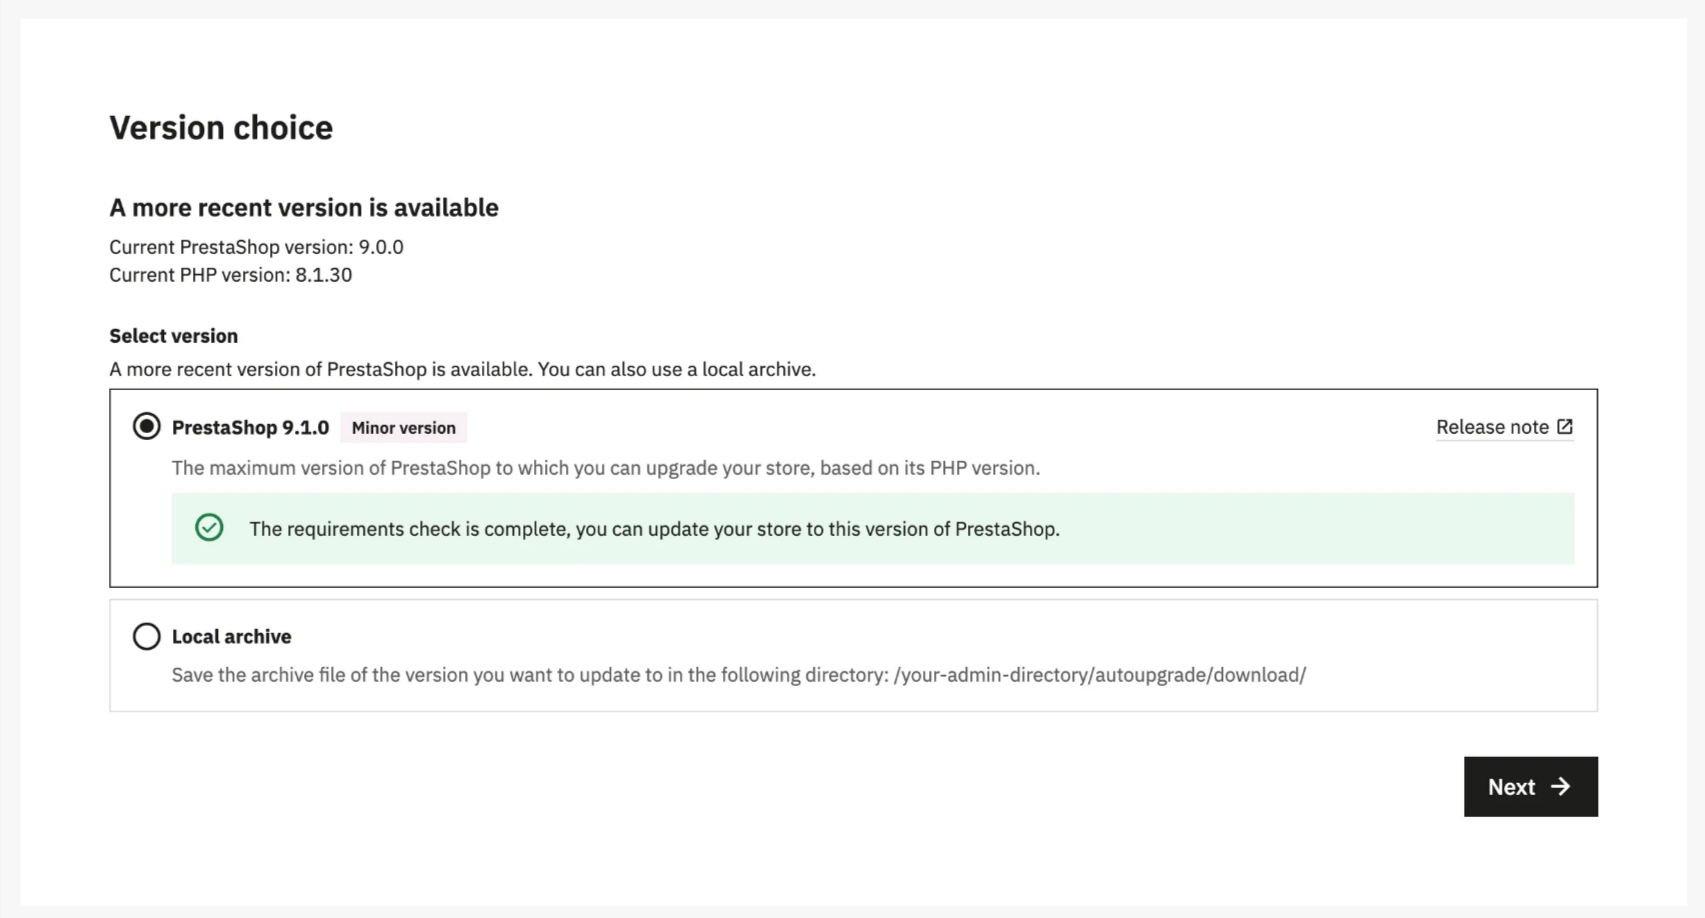
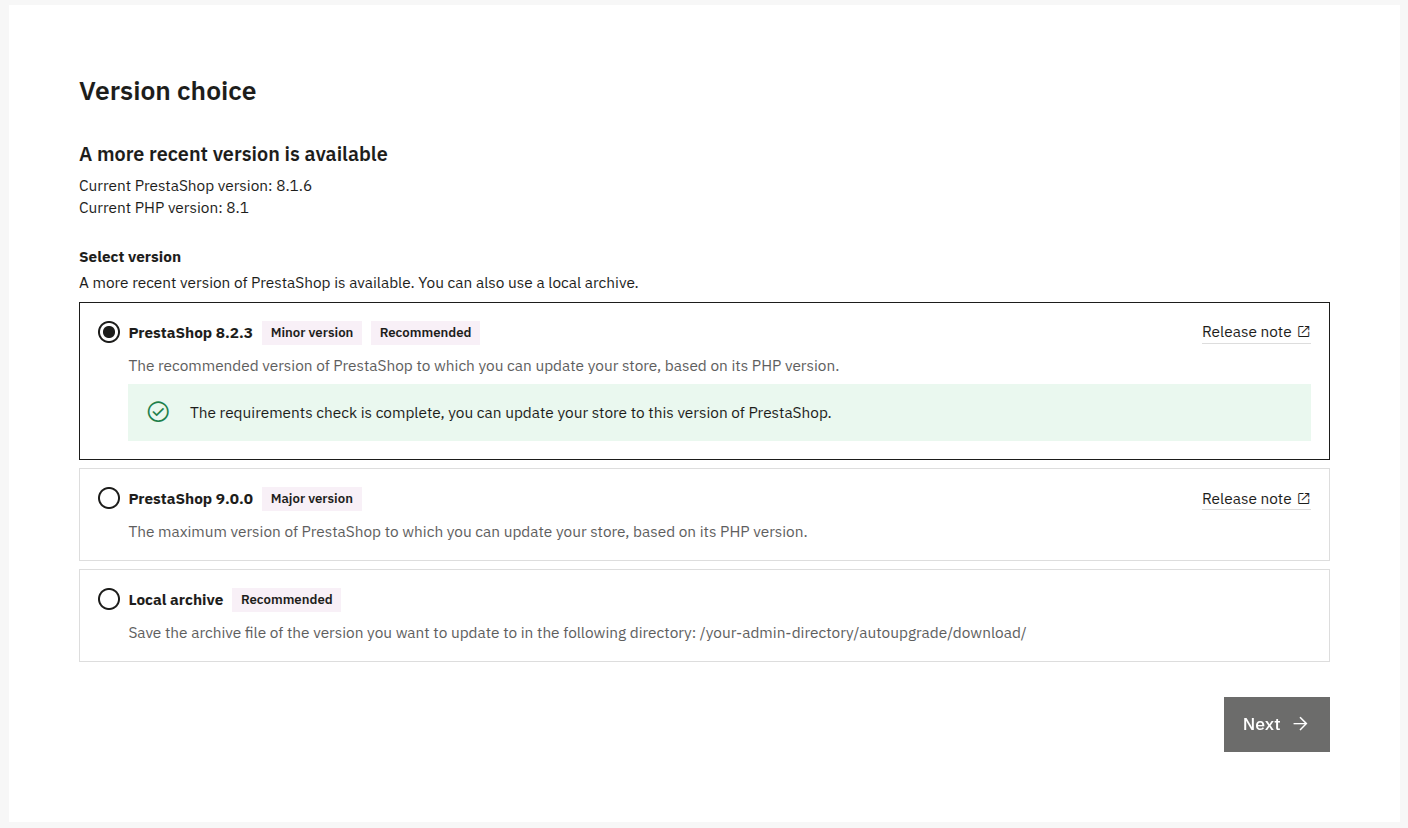
update: documentation to match new recommended version present on version choice for autoupgrade module.

diff --git a/basics/keeping-up-to-date/update/update-from-the-cli.md b/basics/keeping-up-to-date/update/update-from-the-cli.md
@@ -295,18 +295,32 @@ Example of the `update:check-new-version` command execution:
 
 ```text
 $ php bin/console update:check-new-version admin123
------------+----------+-------+---------------------------------------------------------------------------+
-| Version  | Channel  | Type  | Information                                                               |
-+----------+----------+-------+---------------------------------------------------------------------------+
-| 8.2.0    | online   | minor | https://build.prestashop-project.org/news/2024/prestashop-8-2-0-available/|
-| 9.0.0    | local    | major | Zip: 2024-10-17-develop-prestashop_9_0_0.zip                              |
-|          |          |       | Xml: prestashop_9.0.0.xml                                                 |
-| 8.1.0    | local    | patch | Zip: 8_1_0.zip                                                            |
-|          |          |       | Xml: 8.1.0-2.xml, 8.1.0.xml                                               |
++---------+--------------------+-------+--------------------------------------------------------------------------------------+
+| Version | Channel            | Type  | Information                                                                          |
++---------+--------------------+-------+--------------------------------------------------------------------------------------+
+| 8.2.3   | online_recommended | minor | https://build.prestashop-project.org/news/2025/prestashop-8-2-3-security-release/    |
+| 9.0.1   | online             | major | https://build.prestashop-project.org/news/2025/prestashop-9-0-1-maintenance-release/ |
+| 9.0.0   | local              | major | Zip: 2024-10-17-develop-prestashop_9_0_0.zip                                         |
+|         |                    |       | Xml: prestashop_9.0.0.xml                                                            |
+| 8.1.1   | local              | patch | Zip: 8_1_1.zip                                                                       |
+|         |                    |       | Xml: 8.1.1-2.xml, 8.1.1.xml                                                          |
++---------+--------------------+-------+--------------------------------------------------------------------------------------+
 ```
 
-- The official “online” update for your store, detected by PrestaShop APIs (major, minor or patch versions). This update corresponds to the most recent version of PrestaShop compatible with the PHP version of your server.
-- The “local” update, which displays customized updates detected in your `/your-admin-directory/autoupgrade/download` folder on your server.
+The **Channel** column indicates the source and type of the available update:
+
+- **`online_recommended`**: The recommended update for your store, detected by PrestaShop APIs (major, minor or patch versions). This update corresponds to the most stable and well-tested version of PrestaShop compatible with the PHP version of your server. The recommended version represents the safest upgrade path for your store.
+- **`online`**: The latest update available for your store, which corresponds to the most recent version of PrestaShop compatible with the PHP version of your server. This version may differ from the recommended version.
+- **`local`**: Customized updates detected in your `/your-admin-directory/autoupgrade/download` folder on your server.
+
+#### Update scenarios
+
+Depending on the current state of PrestaShop releases, the command output may show:
+
+- Both a **recommended version** (`online_recommended`) and a **latest version** (`online`) when they differ.
+- Only one online version with the `online_recommended` channel when the recommended version is also the latest.
+- Only the latest version with the `online` channel when no specific version is marked as recommended.
+- Local versions (`local` channel) in addition to online versions, if custom update files are detected on your server.
 
 ### update:check-requirements command
 

diff --git a/basics/keeping-up-to-date/update/update-from-the-back-office.md b/basics/keeping-up-to-date/update/update-from-the-back-office.md
@@ -53,12 +53,25 @@ main steps: Version choice > Update options > Backup > Update > Post-update.
 
 ### Version choice
 
-The step “Version choice”, shows you the updates available for your store. Two update channels are listed at this stage:
 
-- The official “online” update for your store, detected by PrestaShop APIs (major, minor or patch versions). This update
-  corresponds to the most recent version of PrestaShop compatible with the PHP version of your server.
-- The “local” update, which displays customized updates detected in your `/your-admin-directory/autoupgrade/download`
+The step "Version choice", shows you the updates available for your store. Up to three update channels can be listed at this stage:
+
+- The official **"recommended"** update for your store, detected by PrestaShop APIs (major, minor or patch versions). This update
+  corresponds to the most stable and well-tested version of PrestaShop compatible with the PHP version of your server. The recommended
+  version is identified by a "Recommended" badge displayed next to the version type badge (major, minor, or patch).
+- The **"latest"** update available for your store, which corresponds to the most recent version of PrestaShop compatible with the
+  PHP version of your server. This version may be shown separately from the recommended version when they differ.
+- The **"local"** update, which displays customized updates detected in your `/your-admin-directory/autoupgrade/download`
   folder on your server.
+
+#### Understanding recommended versions
+
+The recommended version is the version that has been thoroughly tested and validated for stability. It may not always be the latest
+release, but it represents the safest upgrade path for your store. Depending on the current state of PrestaShop releases, you may see:
+
+- Both a **recommended version** and a **latest version** displayed as separate options (when they differ).
+- Only one version displayed with a "Recommended" badge (when the recommended version is also the latest).
+- Only the latest version without a "Recommended" badge (when no specific version is marked as recommended).
 
 These views are thus adapted to the version of PrestaShop used in your store, to the PHP version of your server, and
 therefore reflect possible updates for your store.
